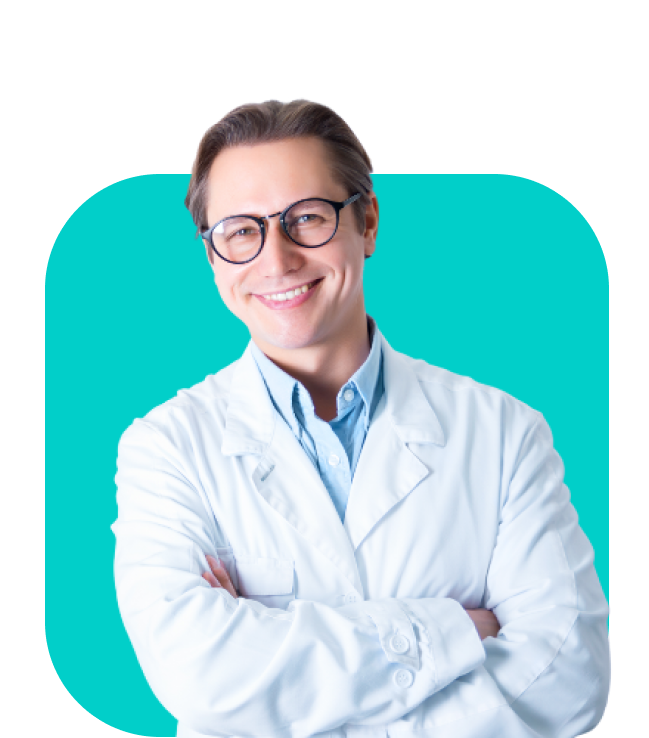
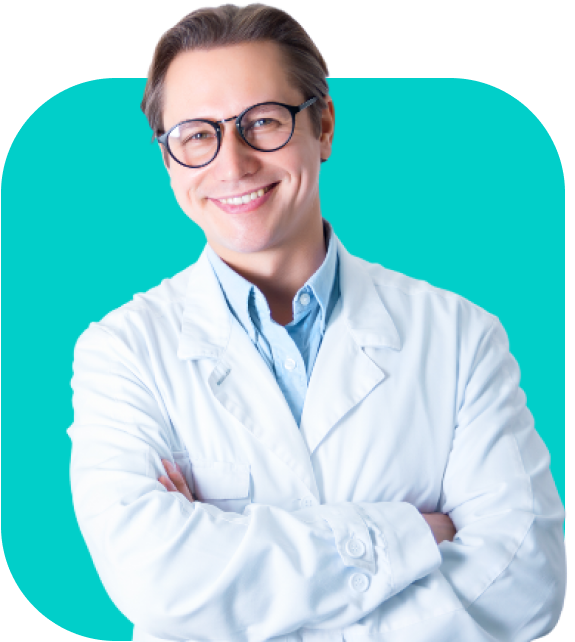
language

diff --git a/src/index.html b/src/index.html
@@ -1,140 +1,113 @@
 <!DOCTYPE html>
-<html lang="ukr">
+<html lang="rus">
   <head>
-    <meta charset="UTF-8" />
-    <meta name="viewport" content="width=device-width, initial-scale=1.0" />
+    <meta charset="UTF-8">
+    <meta name="viewport" content="width=device-width, initial-scale=1.0">
     <title>Document</title>
 
-    <link rel="stylesheet" href="css/style.min.css" />
+    <link rel="stylesheet" href="css/style.min.css">
   </head>
   <body>
     <header class="header">
       <div class="container header__container">
         <a href="/" class="header__logo">
-          <img class="img-svg" src="img/logo/LADENT.pl.svg" alt="logo" />
+          <img class="img-svg" src="img/logo/LADENT.pl.svg" alt="logo">
         </a>
 
         <nav class="header__menu">
           <div class="header__item">
-            <a href="#promo" class="header__link">Головна</a>
+            <a href="#promo" class="header__link">Gołowna</a>
           </div>
           <div class="header__item">
-            <a href="#services" class="header__link">Послуги</a>
+            <a href="#services" class="header__link">Usługi</a>
           </div>
           <div class="header__item">
-            <a href="#about" class="header__link">Хто ми</a>
+            <a href="#about" class="header__link">Któremu ja</a>
           </div>
           <div class="header__item">
-            <a href="#" class="header__link">Контакти</a>
+            <a href="#" class="header__link">Łączność</a>
           </div>
         </nav>
 
-        <a href="#form" class="button header__button">Записатись</a>
+        <a href="#form" class="button header__button">Zapisać się</a>
       </div>
     </header>
 
     <section class="promo" id="promo">
-      <div class="container">
-        <div class="promo__wrapper">
-          <div class="promo__descr">
-            <h1 class="title promo__title">
-              Усмішка, що формує <span>не лише зуби</span>, а й вашу долю
-            </h1>
-            <div class="text text_big promo__text">
-              Ми пропонуємо високоякісні стоматологічні послуги з присутністю
-              фахівців кожного виду лікування, задовольняючи потреби кожного
-              пацієнта
+        <div class="container">
+            <div class="promo__wrapper">
+                <div class="promo__descr">
+                    <h1 class="title promo__title">Uśmiech, scho tworzą <span>nie tylko zęby</span>, i twój udział</h1>
+                    <div class="text text_big promo__text">
+                        Swoją obecnością propagujemy najwyższe usługi stomatologiczne
+                        fahivtsіv dermalny umysł likuvannya, satysfakcjonujące spożycie skóry
+                        pacjent
+                    </div>
+                    <a href="#" class="button button_big promo__button">Zapisz się teraz</a>
+                    <div class="promo__contacts">
+                        <div class="promo__item">
+                            <div class="promo__icon">
+                            <img src="img/icons/phone.svg" alt="phone">
+                            </div>
+                            <div class="text text_small">
+                            Numer telefonu:<a href="tel:820 320 320" class="promo__phone">820 320 320</a>
+                            </div>
+                        </div>
+                        <div class="promo__item">
+                            <img src="img/icons/location.svg" alt="location" class="promo__icon">
+                            <div class="text text_small">Corso Luigi Enaudi <br > 5610023 Torino</div>
+                        </div>
+                    </div>
+                </div>
+                <div class="promo__img">
+                    <img src="img/dentist_main.png" alt="dentist">
+                </div>
             </div>
-            <a href="#" class="button button_big promo__button"
-              >Записатись зараз</a
-            >
-            <div class="promo__contacts">
-              <div class="promo__item">
-                <div class="promo__icon">
-                  <img src="img/icons/phone.svg" alt="phone" />
-                </div>
-                <div class="text text_small">
-                  Номер телефону:
-                  <a href="tel:820 320 320" class="promo__phone">820 320 320</a>
-                </div>
-              </div>
-              <div class="promo__item">
-                <img
-                  src="img/icons/location.svg"
-                  alt="location"
-                  class="promo__icon"
-                />
-                <div class="text text_small">
-                  Corso Luigi Enaudi <br />
-                  5610023 Torino
-                </div>
-              </div>
-            </div>
-          </div>
-          <div class="promo__img">
-            <img src="img/dentist_main.png" alt="dentist" />
-          </div>
         </div>
-      </div>
     </section>
 
     <section class="services" id="services">
       <div class="container">
-        <h3 class="title title-h3 services__title">НАШІ ПОСЛУГИ</h3>
-        <h1 class="title services__subtitle">Наш прайс лист</h1>
+        <h3 class="title title-h3 services__title">NASZE USŁUGI</h3>
+        <h1 class="title services__subtitle">Nasz cennik</h1>
         <ul class="services__tabs">
           <li class="services__tab services__tab_active">
-            <div>Стоматологія</div>
+            <div>Stomatologia</div>
           </li>
-          <li class="services__tab"><div>Ортодонтрія</div></li>
-          <li class="services__tab"><div>Ендодонтична Хірургія</div></li>
-          <li class="services__tab"><div>Стоматологія</div></li>
+          <li class="services__tab"><div>Ortodoncja</div></li>
+          <li class="services__tab"><div>Chirurgia endodontyczna</div></li>
+          <li class="services__tab"><div>Stomatologia</div></li>
         </ul>
 
         <div class="services__wrapper">
           <div class="services__content">
             <div class="services__item">
               <div class="text text_bold services__text">
-                Накладне побілювання - обидві дуги
+                List przewozowy - obraźliwe łuki
               </div>
               <div class="text text_bold services__price">999 zł</div>
             </div>
             <div class="services__item">
               <div class="text text_bold services__text">
-                Накладне побілювання - обидві дуги
+                List przewozowy - obraźliwe łuki
               </div>
               <div class="text text_bold services__price">999 zł</div>
             </div>
             <div class="services__item">
               <div class="text text_bold services__text">
-                Накладне побілювання - обидві дуги
+                List przewozowy - obraźliwe łuki
               </div>
               <div class="text text_bold services__price">999 zł</div>
             </div>
             <div class="services__item">
               <div class="text text_bold services__text">
-                Накладне побілювання - обидві дуги
+                List przewozowy - obraźliwe łuki
               </div>
               <div class="text text_bold services__price">999 zł</div>
             </div>
             <div class="services__item">
               <div class="text text_bold services__text">
-                Накладне побілювання - обидві дуги
-              </div>
-              <div class="text text_bold services__price">999 zł</div>
-            </div>
-          </div>
-
-          <div class="services__content">
-            <div class="services__item">
-              <div class="text text_bold services__text">
-                Накладне побілювання - обидві дуги
-              </div>
-              <div class="text text_bold services__price">999 zł</div>
-            </div>
-            <div class="services__item">
-              <div class="text text_bold services__text">
-                Накладне побілювання - обидві дуги
+                List przewozowy - obraźliwe łuki
               </div>
               <div class="text text_bold services__price">999 zł</div>
             </div>
@@ -143,7 +116,13 @@
           <div class="services__content">
             <div class="services__item">
               <div class="text text_bold services__text">
-                Накладне побілювання - обидві дуги
+                List przewozowy - obraźliwe łuki
+              </div>
+              <div class="text text_bold services__price">999 zł</div>
+            </div>
+            <div class="services__item">
+              <div class="text text_bold services__text">
+                List przewozowy - obraźliwe łuki
               </div>
               <div class="text text_bold services__price">999 zł</div>
             </div>
@@ -152,31 +131,40 @@
           <div class="services__content">
             <div class="services__item">
               <div class="text text_bold services__text">
-                Накладне побілювання - обидві дуги
+                List przewozowy - obraźliwe łuki
+              </div>
+              <div class="text text_bold services__price">999 zł</div>
+            </div>
+          </div>
+
+          <div class="services__content">
+            <div class="services__item">
+              <div class="text text_bold services__text">
+                List przewozowy - obraźliwe łuki
               </div>
               <div class="text text_bold services__price">999 zł</div>
             </div>
             <div class="services__item">
               <div class="text text_bold services__text">
-                Накладне побілювання - обидві дуги
+                List przewozowy - obraźliwe łuki
               </div>
               <div class="text text_bold services__price">999 zł</div>
             </div>
             <div class="services__item">
               <div class="text text_bold services__text">
-                Накладне побілювання - обидві дуги
+                List przewozowy - obraźliwe łuki
               </div>
               <div class="text text_bold services__price">999 zł</div>
             </div>
             <div class="services__item">
               <div class="text text_bold services__text">
-                Накладне побілювання - обидві дуги
+                List przewozowy - obraźliwe łuki
               </div>
               <div class="text text_bold services__price">999 zł</div>
             </div>
             <div class="services__item">
               <div class="text text_bold services__text">
-                Накладне побілювання - обидві дуги
+                List przewozowy - obraźliwe łuki
               </div>
               <div class="text text_bold services__price">999 zł</div>
             </div>
@@ -189,14 +177,14 @@
       <div class="container">
         <div class="about__wrapper">
           <div class="about__content">
-            <h3 class="title title-h3 about__title">НАША СТУДІЯ</h3>
-            <h1 class="title about__subtitle">Хто ми є?</h1>
+            <h3 class="title title-h3 about__title">NASZE STUDIO</h3>
+            <h1 class="title about__subtitle">Kim jestem?</h1>
             <div class="text about__text">
-              LaDent є першою італійською приватною медичною компанією, яка має
-              3 сертифікати ISO з якості, навколишнього середовища та безпеки:
-              якість послуг, що пропонуються пацієнтам, сертифікована третіми
-              сторонами, а інновації та навчання відіграють фундаментальну роль
-              у розвитку професії.
+                LaDent to pierwsza włoska prywatna firma medyczna, jaką mogę
+                3 certyfikaty ISO dotyczące jakości, żywotności i bezpieczeństwa:
+                jakość usług pokazywanych pacjentom jest potwierdzona certyfikatami stron trzecich
+                stron, a innowacje i uczenie się odgrywają zasadniczą rolę
+                w rozwoju zawodu.
             </div>
             <div class="about__info">
               <div class="about__item">
@@ -206,9 +194,9 @@
                   class="about__icon"
                 />
                 <div class="about__descr">
-                  <div class="text text__bold">Повний розклад для всіх</div>
+                  <div class="text text__bold">Nowy układ dla każdego</div>
                   <div class="text text_small">
-                    Центри «ДенталПро» працюють протягом усього дня з 9:00 до
+                    Centri „DentalPro” pratsyyut protyazhut codziennie od 9:00 do
                     20:00.
                   </div>
                 </div>
@@ -216,10 +204,10 @@
               <div class="about__item">
                 <img src="img/icons/card.svg" alt="card" class="about__icon" />
                 <div class="about__descr">
-                  <div class="text text__bold">Відтермінування платежу</div>
+                  <div class="text text__bold">Odpowiedzialność za płatność</div>
                   <div class="text text_small">
-                    LaDent пропонує індивідуальний план оплати. Нашою
-                    першочерговою метою завжди має бути здоров’я пацієнта.
+                    LaDent oferuje indywidualny plan płatności. nasz
+                    pierwszą metodą możesz być zdrowym pacjentem.
                   </div>
                 </div>
               </div>
@@ -234,33 +222,20 @@
 
     <div class="request-form" id="form">
       <div class="request-form__container container">
-        <h2 class="title title_h2 request-form__title">Umówić się</h2>
-        <form class="request-form__form" action="#">
-          <div class="request-form__input">
-            <input
-              name="name"
-              required
-              id="name"
-              placeholder="Имя"
-              type="text"
-            />
-          </div>
-          <div class="request-form__input">
-            <input
-              name="phone"
-              required
-              id="phone"
-              placeholder="Телефон"
-              type="number"
-            />
-          </div>
-          <div class="request-form__textarea">
-            <textarea name="text" placeholder="Сообщение" id=""></textarea>
-          </div>
-
-          <button class="button request-form__button">Записатись</button>
-        </form>
-      </div>
+            <h2 class="title title_h2 request-form__title">Umówić się</h2>
+            <form class="request-form__form" action="#">
+                <div class="request-form__input">
+                    <input name="name" required id="name" placeholder="Nazwa" type="text">
+                </div>
+                <div class="request-form__input">
+                    <input name="phone" required id="phone" placeholder="Telefon" type="number">
+                </div>
+                <div class="request-form__textarea">
+                    <textarea name="text" placeholder="Wiadomość" id=""></textarea>
+                </div>
+                <button class="button request-form__button">Zapisać się</button>
+            </form>
+        </div>
     </div>
 
     <footer class="footer"></footer>

diff --git a/src/scss/_general.scss b/src/scss/_general.scss
@@ -3,7 +3,7 @@
     &__wrapper {
         display: grid;
         grid-template-columns: 595px 649px;
-        gap: 20px;
+        gap: 65px;
     }
     &__title {
         span {
@@ -42,7 +42,7 @@
         align-items: center;
     }
     &__img {
-        margin-top: -200px;
+        margin-top: -70px;
     }
 }
 .services {
@@ -103,7 +103,8 @@
     margin-top: 120px;
     &__wrapper {
         display: grid;
-        grid-template-columns: 646px 820px;
+        grid-template-columns: 646px 426px;
+        gap: 170px;
     }
     &__subtitle {
         margin-top: 10px;
@@ -132,8 +133,7 @@
     }
 
     &__img {
-        margin-left: -100px;
-        margin-top: -100px;
+        margin-top: -60px;
     }
 }
 
